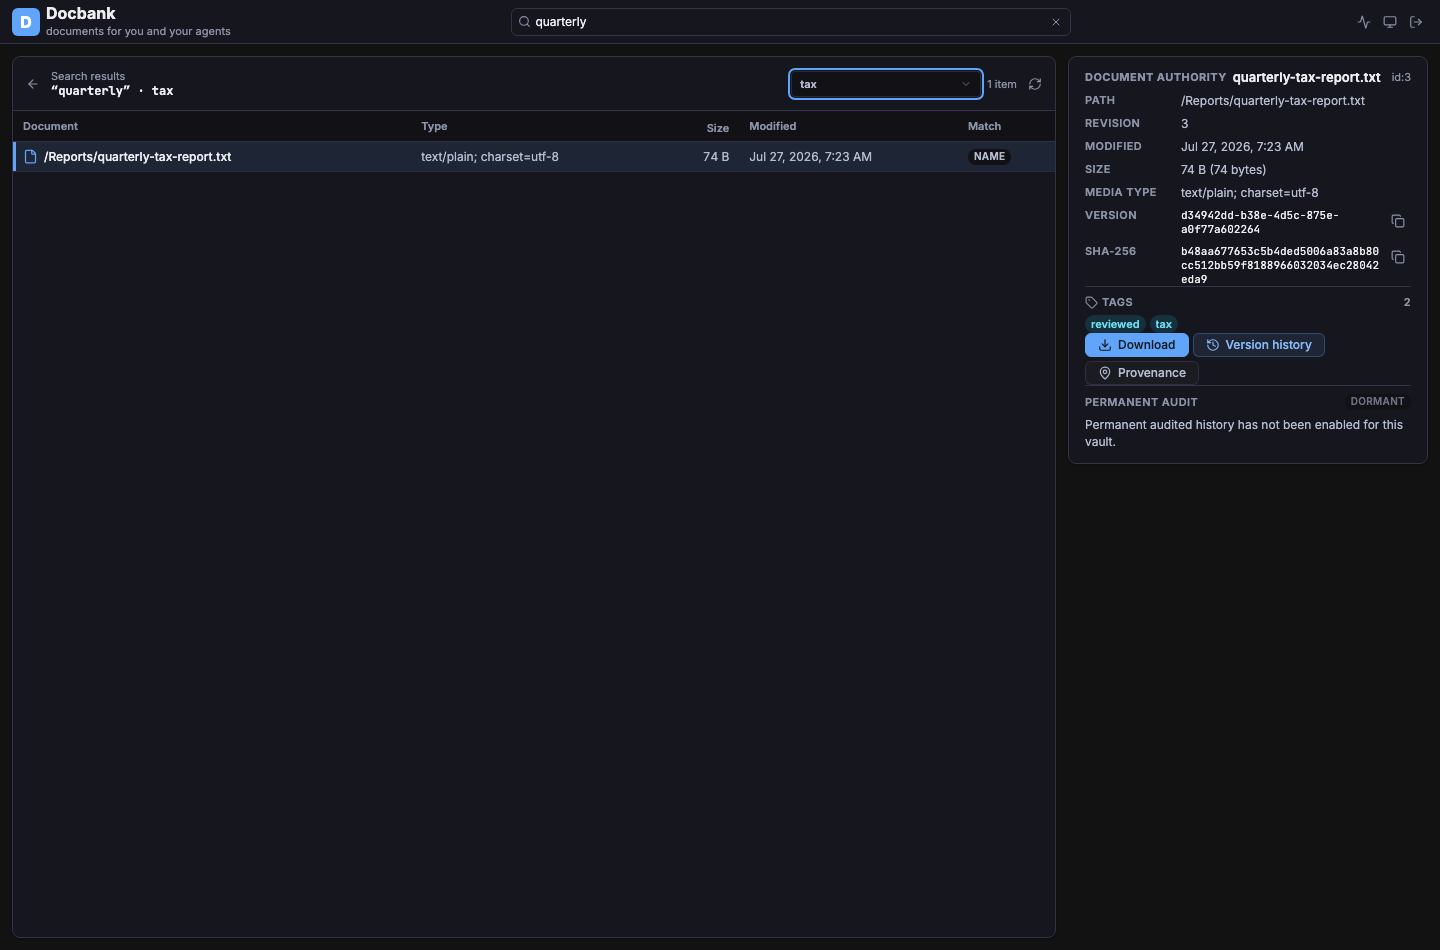
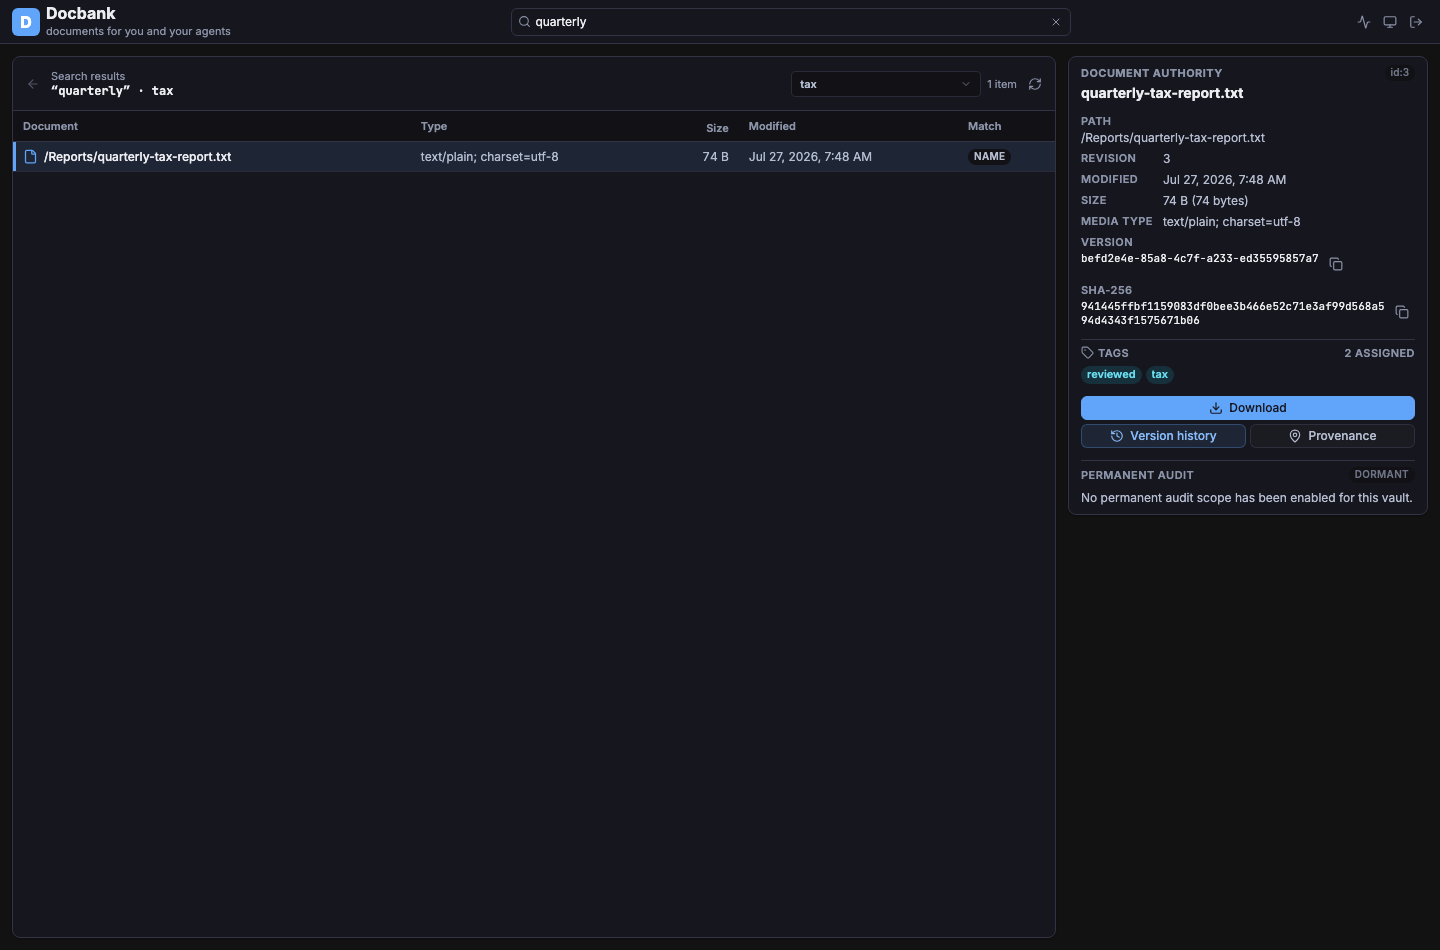
Refresh the web tags PR screenshot
The authority panel screenshot should show the hierarchy and spacing reviewers will actually merge. Replace the first capture with the refined narrow-sidebar layout while preserving the same synthetic search and stable-tag evidence.

Generated with Codex

Changed region(s): [[0.75, 0.0611, 1.0, 0.5495], [0.5312, 0.1526, 0.5938, 0.1832]]

diff --git a/README.md b/README.md
@@ -42,7 +42,7 @@ terminally verified and handed to the browser's native download. The vault,
 document name, path, contents, hash, and identifiers are synthetic.
 
 `screenshots/web-tags/web-tags.png` was captured on 2026-07-27 from Docbank
-commit `6def22a` at 1440 × 950 in dark mode. It shows the actual daemon-served
+commit `3c5ae56` at 1440 × 950 in dark mode. It shows the actual daemon-served
 web application after a two-result text search was narrowed to the one
 synthetic report carrying the selected stable tag. The vault, document names,
 paths, contents, hashes, tags, and identifiers are synthetic.
